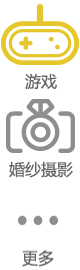
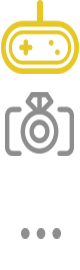
modify style

diff --git a/src/components/index.vue b/src/components/index.vue
@@ -2,7 +2,7 @@
   <div id="indexContainer">
     <div class="imgs">
       <div class="indexLogo">
-        <img src="../assets/indexLogo.png" alt="">
+        <img src="../assets/indexLogo.png" alt="" @click="gotoRoot">
       </div>
       <div class="history">
         <img src="../assets/history.png" alt="" @click="toHistory">
@@ -13,15 +13,15 @@
         <p class="industryText">选择行业</p>
         <div class="industries" @click="getIndustry">
           <div class="game">
-            <div class="industryImgs" value="游戏"></div>
+            <div class="industryImgs" id="game" value="游戏"></div>
             <p id="gametext">游戏</p>
           </div>
           <div class="wedding">
-            <div class="industryImgs" value="婚纱摄影"></div>
+            <div class="industryImgs" id="wedding" value="婚纱摄影"></div>
             <p id="weddingtext">婚纱摄影</p>
           </div>
           <div class="more">
-            <div class="industryImgs" value="更多"></div>
+            <div class="industryImgs" id="more" value="更多"></div>
             <p id="moretext">更多</p>
           </div>
         </div>
@@ -45,6 +45,9 @@
       }
     },
     methods:{
+      gotoRoot(){
+        this.$router.push({name:'login'})
+      },
       toHistory(){
         this.$router.push({name:'history'});
       },
@@ -82,12 +85,17 @@
               tag.setAttribute("class",newClass+" bounceIn");
               let game = document.getElementById('gametext');
               let wed = document.getElementById('weddingtext');
+              document.querySelector("#game").style.backgroundPosition="0px -178px";
+              document.querySelector("#wedding").style.backgroundPosition="0px 192px";
+  
               game.style.color="#878787";
               wed.style.color="#878787";
               if(val==="游戏"){
                 game.style.color="#e5c725";
+                document.querySelector("#game").style.backgroundPosition="0px 0px";
               }else{
-                wed.style.color="purple";
+                wed.style.color="#6724d1";
+                document.querySelector("#wedding").style.backgroundPosition="0px -82px";
               }
             },80)
 
@@ -148,15 +156,15 @@
   }
   .game>div{
     background:url('../assets/options.png');
-    background-position: 0px 0px;
+    background-position: 0px -178px;
   }
   .wedding>div{
     background:url('../assets/options.png');
-    background-position: 0px 185px;
+    background-position: 0px 192px;
   }
   .more>div{
     background:url('../assets/options.png');
-    background-position: 0px 350px;
+    background-position: 0px 90px;
   }
   .keyword div{
     margin-right:50px;
@@ -198,6 +206,7 @@
     background:#6724d1;
     color:#fff;
     cursor: pointer;
+    border-color:#9e7ad8;
   }
 
   @keyframes bounceIn {

diff --git a/src/components/history.vue b/src/components/history.vue
@@ -5,7 +5,7 @@
         <img src="../assets/list-history.png" alt="">
       </div>
     </div>
-
+    <div class="clear" @click="clear">清空数据</div>
     <div class="content" v-loading="loading2" element-loading-text="拼命加载中...">
       <div class="item">
         <img src="../assets/item.png" alt="">
@@ -72,6 +72,29 @@
     display:flex;
     justify-content: center;
     align-items: center;
+  }
+  .clear{
+    margin:0 auto;
+    color:#6724d1;
+    text-align:center;
+    margin-top:20px;
+    width:100px;
+    height:26px;
+    text-decoration: none;
+    border:2px solid #6724d1;
+    background:#fff;
+    border-radius: 40px;
+    display: flex;
+    justify-content: center;
+    align-items: center;
+    color:#6724d1;
+    font-family: MFJiaHei_Noncommercial Regular;
+  }
+  .clear:hover{
+    background:#6724d1;
+    color:#fff;
+    cursor: pointer;
+    border-color:#9e7ad8;
   }
   .listLogo{
     display:flex;
@@ -146,6 +169,7 @@
     background:#6724d1;
     color:#fff;
     cursor: pointer;
+    border-color:#9e7ad8;
   }
 
 </style>

diff --git a/src/components/list.vue b/src/components/list.vue
@@ -2,7 +2,7 @@
   <div id="listContainer">
     <div class="imgs">
       <div class="listLogo">
-        <img src="../assets/list-history.png" alt="">
+        <img src="../assets/list-history.png" alt="" @click="gotoIndex">
       </div>
       <div class="history">
         <img src="../assets/history.png" alt="" @click="toHistory">
@@ -44,6 +44,9 @@
       }
     },
     methods:{
+      gotoIndex(){
+        this.$router.push({name:'index'});
+      },
       toHistory(){
         this.$router.push({name:'history'});
       },
